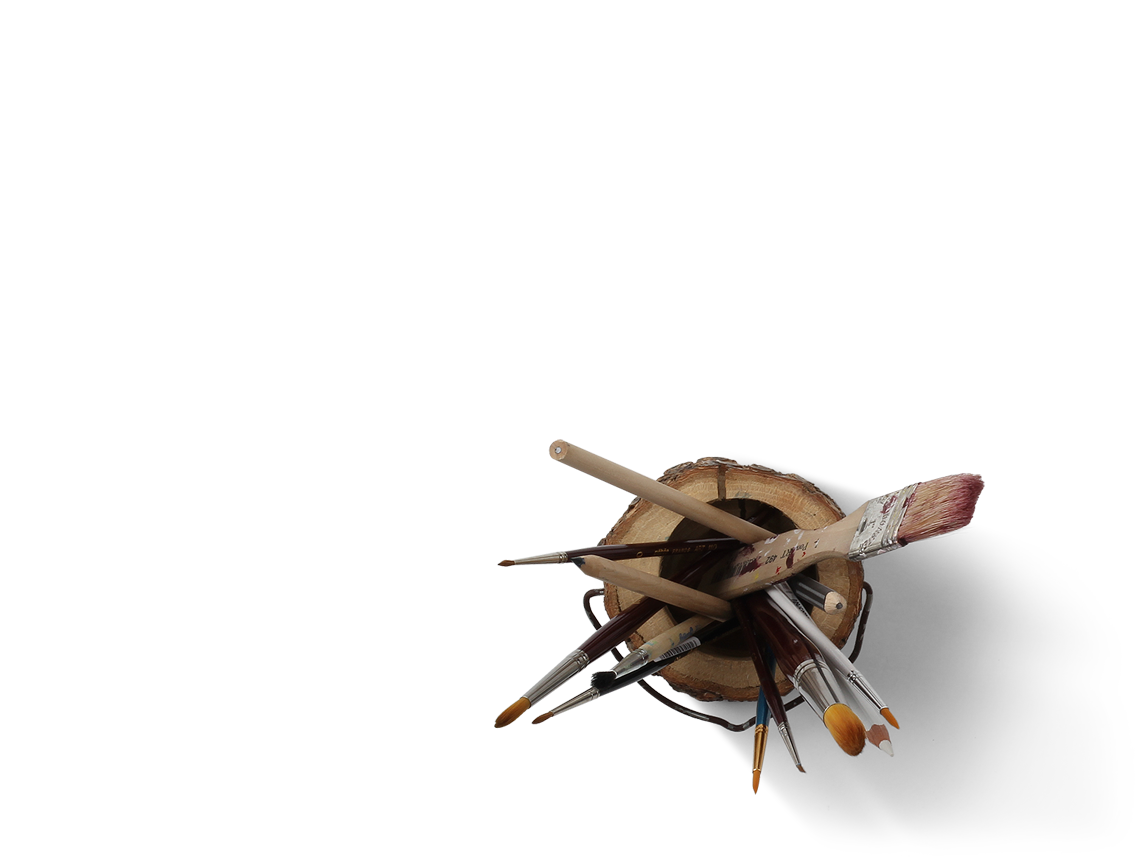
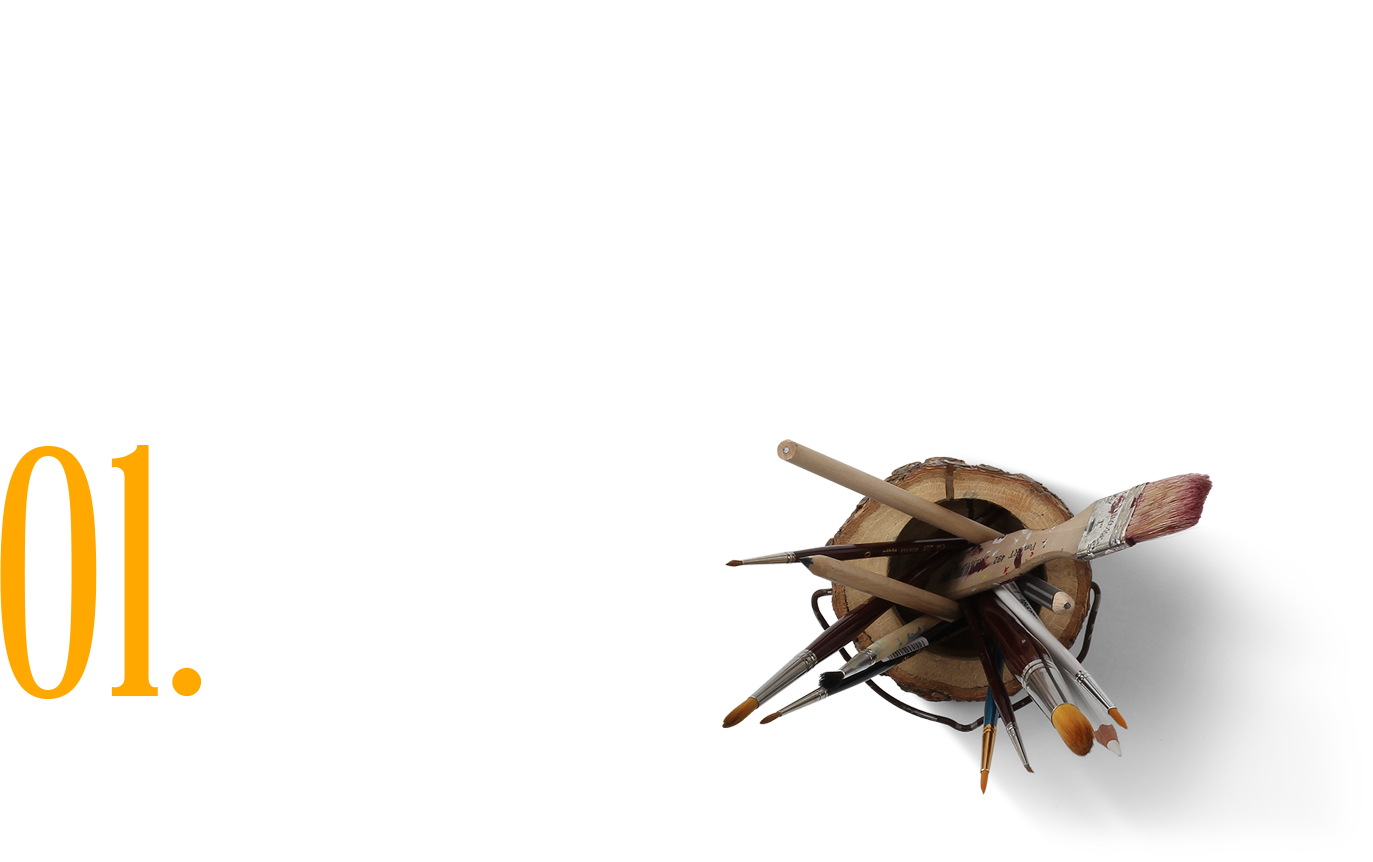
Brush Section changes

Changed region(s): [[0.4279, 0.5128, 0.8865, 0.935], [0.0, 0.5128, 0.1528, 0.8144]]

diff --git a/index.html b/index.html
@@ -75,13 +75,12 @@ and open the template in the editor.
 
             <section id="brush_section">
 
+                <img class="img-responsive" id="brush_img" src="img/brush_box.png" alt=""/>
+                
+                
                 <div class="container">
                     <div class="row">
-                        <div class="col-md-12">
-
-                            <p id="text_brush_01">01.</p>
-
-                            <img class="img-responsive" id="brush_img" src="img/brush_box.png" alt=""/>
+                        <div class="col-md-6">
 
                         </div>
 

diff --git a/css/style.css b/css/style.css
@@ -108,12 +108,6 @@ header {
 #brush_img {
     width: 80%;
     position: absolute;
-    top: 50%;
-    left: 37.5%
-    
+ 
 }
 
-#text_brush_01 {
-    font-size: 350pt;
-    
-}
